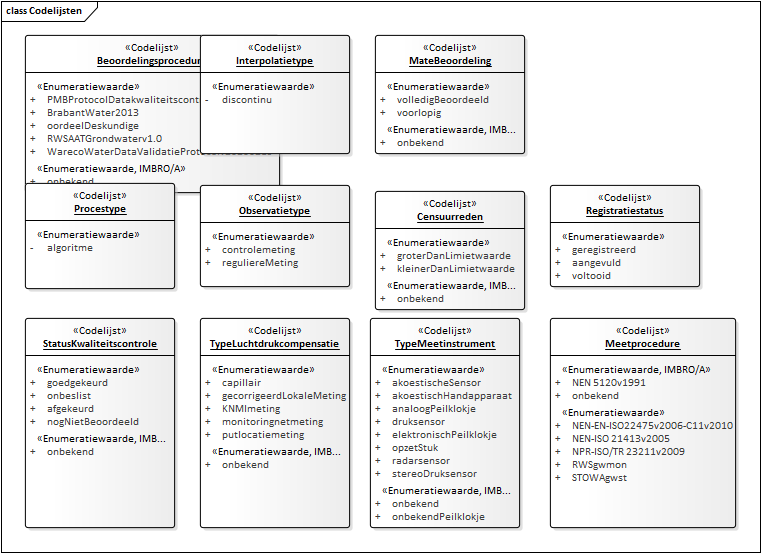
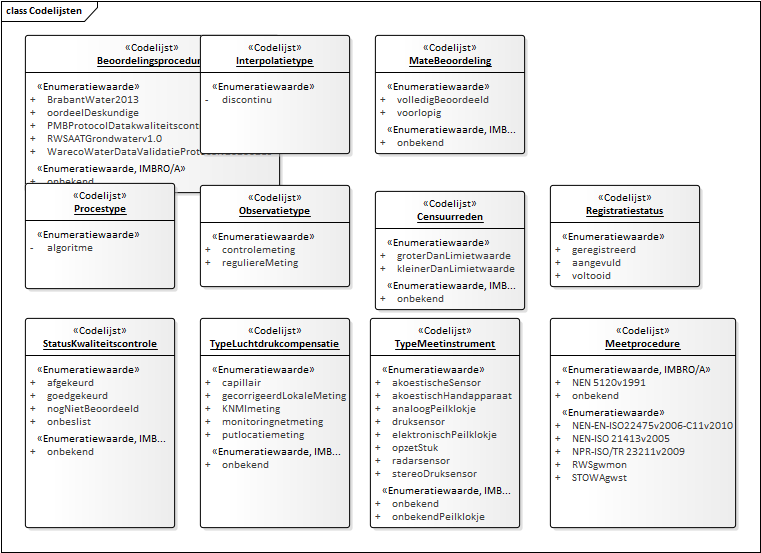
Conceptualmodel-GrondwaterstandonderzoekGLD-0.91-3-20191111-20200320-105337

Changed region(s): [[0.0604, 0.1537, 0.272, 0.2459], [0.0604, 0.6763, 0.1813, 0.7685]]

diff --git a/data/GLD-cat.msword.html b/data/GLD-cat.msword.html
@@ -13,7 +13,7 @@
    <body>
       <p>Conceptual model/Grondwaterstandonderzoek (GLD)/20191111</p>
       <p>Imvertor: 1.59.2</p>
-      <p>Model release: Conceptualmodel-GrondwaterstandonderzoekGLD-0.91-3-20191111-20200313-174330</p>
+      <p>Model release: Conceptualmodel-GrondwaterstandonderzoekGLD-0.91-3-20191111-20200320-105337</p>
       <hr>
       <section>
          <h1>Artikel 1 Definitie van registratieobject, entiteiten en attributen</h1>
@@ -207,8 +207,8 @@
                               <th>Regels</th>
                               <td>
                                  
-                                 <p>De organisatie moet binnen de basisregistratie ondergrond als bronhouder van grondwatersamenstellingsonderzoek
-                                    bekend zijn.
+                                 <p>De organisatie moet bekend zijn binnen de basisregistratie ondergrond als bronhouder
+                                    van grondwatersamenstellingsonderzoek.
                                  </p>
                                  
                               </td>
@@ -323,8 +323,8 @@
                               <th>Regels</th>
                               <td>
                                  
-                                 <p>De organisatie moet binnen de basisregistratie ondergrond als dataleverancier van
-                                    het registratieobject bekend zijn.
+                                 <p>De organisatie moet bekend zijn binnen de basisregistratie ondergrond als dataleverancier
+                                    van het registratieobject bekend zijn.
                                  </p>
                                  
                               </td>
@@ -1447,17 +1447,8 @@
                               <th>Regels</th>
                               <td>
                                  
-                                 <p>De begindatum van <em>observatieperiode moet</em> liggen na of gelijk zijn aan de einddatum van <em>observatieperiode</em> van andere <em>Observaties</em> uit hetzelfde grondwaterstandonderzoek waarvan de begindatum gelijk is aan of voor
-                                    de begindatum ligt van <em>observatieperiode</em> EN<br clear="none">
-                                    De einddatum van <em>observatieperiode</em> moet liggen voor of gelijk zijn aan de begindatum van <em>observatieperiode</em> van andere <em>Observaties</em> uit hetzelfde grondwaterstandonderzoek waarvan de einddatum gelijk is aan of na de
-                                    einddatum ligt van <em>observatieperiode,</em> wanneer geldt dat:<br clear="none">
-                                    de waarde van het attribuut <em>type observatie</em> gelijk is aan <em>reguliere meting</em> EN<br clear="none">
-                                    de waarde van het attribuut <em>mate beoordeling</em> gelijk is aan <em>volledig beoordeeld.</em>
-                                    
-                                 </p>
-                                 
-                                 <p>De waarde van <em>begindatum</em> moet gelijk zijn aan het datumdeel van <em>tijdstip meting</em> van het eerste <em>Tijdmeetwaardepaar</em> van de entiteit <em>Tijdmeetwaardereeks</em> behorende bij de observatie.<br clear="none">
-                                    De waarde van <em>einddatum</em> moet gelijk zijn aan het datumdeel van <em>tijdstip meting</em> van het laatste <em>Tijdmeetwaardepaar</em> van de entiteit <em>Tijdmeetwaardereeks</em> behorende bij de observatie.
+                                 <p>De observatieperioden mogen elkaar niet overlappen wanneer de waarde van het attribuut
+                                    <em>type observatie</em> van de entiteit <em>Metadata observatie</em> gelijk is aan <em>reguliereMeting</em> EN de waarde van het attribuut <em>mate beoordeling</em> van de entiteit <em>Metadata observatie</em> gelijk is aan <em>volledigBeoordeeld</em>.
                                  </p>
                                  
                               </td>
@@ -1468,9 +1459,12 @@
                                  
                                  <p>Het attribuut heeft als datatype Datuminterval dat bestaat uit een begin- en een einddatum.
                                     De bronhouder of dataleverancier kan de begindatum afleiden van de eerste meting uit
-                                    de reeks en de einddatum van de laatste meting uit de reeks. Het gegeven dient in
-                                    een brondocument te staan. Het is in WaterML een verplicht attribuut en daarom ook
-                                    hier opgenomen.
+                                    de reeks en de einddatum van de laatste meting uit de reeks.<br clear="none">
+                                    Het gegeven dient in een brondocument te staan. Het is in WaterML een verplicht attribuut
+                                    en daarom ook hier opgenomen.<br clear="none">
+                                    Observatieperioden van volledige beoordeelde tijd-meetwaardereeksen mogen niet overlappen,de
+                                    einddatum van de ene periode mag wel gelijk zijn aan de begindatum van de volgende
+                                    periode.
                                  </p>
                                  
                               </td>
@@ -1520,31 +1514,6 @@
                               <td>OnvolledigeDatum</td>
                            </tr>
                            <tr>
-                              <th>Regels</th>
-                              <td>
-                                 
-                                 <p>De waarde van dit attribuut moet gelijk zijn aan het attribuut <em>tijdstip meting</em> van het laatste <em>Tijdmeetwaardepaar</em> van de entiteit <em>Tijdmeetwaardereeks</em>, behorende bij de observatie wanneer:<br clear="none">
-                                    
-                                 </p>
-                                 
-                                 <ul>
-                                    
-                                    <li>het attribuut <em>observatietype</em> van de entiteit <em>Metadata observatie</em> gelijk is aan controlemeting OF<br clear="none">
-                                       
-                                    </li>
-                                    
-                                    <li>het attribuut <em>observatietype</em> van de entiteit <em>Metadata observatie</em> gelijk is aan reguliere meting EN het attribuut mate beoordeling gelijk is aan voorlopig.<br clear="none">
-                                       
-                                    </li>
-                                    
-                                 </ul>
-                                 
-                                 <p>De waarde van dit attribuut moet liggen na de waarde van het attribuut <em>tijdstip meting</em> van het laatste <em>Tijdmeetwaardepaar</em> van de entiteit <em>Tijdmeetwaardereeks</em>, behorende bij de observatie wanneer het attribuut <em>observatietype</em> van de entiteit <em>Metadata observatie</em> gelijk is aan <em>reguliere meting</em> EN het attribuut <em>mate beoordeling</em> gelijk is aan <em>volledig beoordeeld</em>.
-                                 </p>
-                                 
-                              </td>
-                           </tr>
-                           <tr>
                               <th>Regels IMBRO/A</th>
                               <td>
                                  
@@ -1559,11 +1528,11 @@
                               <td>
                                  
                                  <p>Bij een controlemeting, is dit het tijdstip waarop de meting is uitgevoerd. Bij een
-                                    reguliere meetreeks met een mate beoordeling: voorlopig, is dit het tijdstip van de
-                                    laatste meting van de reeks. Bij een volledig beoordeelde meetreeks is dit het tijdstip
-                                    waarop de beoordeling is afgerond. Niet bedoeld wordt het tijdstip waarop de resultaten
-                                    worden aangeboden bij het bronhouderportaal of de LV-BRO. Dit is in WaterML een verplicht
-                                    attribuut.
+                                    reguliere tijd-meetwaardereeks met een mate beoordeling: voorlopig, is dit het tijdstip
+                                    van de laatste meting van de reeks. Bij een volledig beoordeelde meetreeks is dit
+                                    het tijdstip waarop de beoordeling is afgerond. Niet bedoeld wordt het tijdstip waarop
+                                    de resultaten worden aangeboden bij het bronhouderportaal of de LV-BRO. Dit is in
+                                    WaterML een verplicht attribuut.
                                  </p>
                                  
                               </td>
@@ -1640,7 +1609,7 @@
                               <th>Regels</th>
                               <td>
                                  
-                                 <p>De waarde van dit attribuut moet gelijk zijn aan het datumdeel van het attribuut <em>tijdstip resultaat</em> van de entiteit <em>Observatie</em>.
+                                 <p>De waarde van het attribuut moet gelijk zijn aan het datumdeel van het attribuut <em>tijdstip resultaat</em> van de entiteit <em>Observatie</em>.
                                  </p>
                                  
                               </td>
@@ -1751,7 +1720,7 @@
                               <th>Regels</th>
                               <td>
                                  
-                                 <p>Het attribuut moet aanwezig zijn wanneer de waarde van het attribuut <em>observatietype</em> gelijk is aan <em>reguliere meting</em>.<br clear="none">
+                                 <p>Het attribuut moet aanwezig zijn wanneer de waarde van het attribuut <em>observatietype</em> gelijk is aan <em>reguliereMeting</em>.<br clear="none">
                                     Het attribuut mag niet aanwezig zijn wanneer de waarde van het attribuut <em>observatietype</em> gelijk is aan <em>controlemeting</em>.
                                  </p>
                                  
@@ -1853,8 +1822,8 @@
                               <th>Regels</th>
                               <td>
                                  
-                                 <p>De onderneming moet binnen de basisregistratie ondergrond als uitvoerder van grondwaterstandonderzoek
-                                    bekend zijn. 
+                                 <p>De onderneming moet bekend zijn binnen de basisregistratie ondergrond als uitvoerder
+                                    van grondwaterstandonderzoek. 
                                  </p>
                                  
                               </td>
@@ -2138,8 +2107,7 @@
                               <th>Regels</th>
                               <td>
                                  
-                                 <p>Het attribuut moet aanwezig zijn wanneer de waarde van het attribuut <em>type meetinstrument</em> gelijk is aan <em>druksensor</em>.<br clear="none">
-                                    Het attribuut moet aanwezig zijn wanneer de waarde van het attribuut <em>type meetinstrument</em> gelijk is aan <em>stereoDruksensor</em>.<br clear="none">
+                                 <p>Het attribuut moet aanwezig zijn wanneer de waarde van het attribuut <em>type meetinstrument</em> gelijk is aan <em>druksensor</em> of <em>stereoDruksensor</em>.<br clear="none">
                                     In alle andere gevallen mag het attribuut niet aanwezig zijn.
                                  </p>
                                  
@@ -2264,8 +2232,7 @@
                               <th>Regels IMBRO/A</th>
                               <td>
                                  
-                                 <p>De waarde van het attribuut moet gelijk zijn aan onbekend wanneer de waarde van het
-                                    attribuut <em>mate beoordeling</em> van de entiteit <em>Metadata observatie</em> gelijk is aan onbekend.
+                                 <p>De waarde van het attribuut moet gelijk zijn aan <em>onbekend</em> wanneer de waarde van het attribuut <em>mate beoordeling</em> van de entiteit <em>Metadata observatie</em> gelijk is aan <em>onbekend</em>.
                                  </p>
                                  
                               </td>
@@ -2424,6 +2391,24 @@
                               <th>&nbsp;&nbsp;Naam</th>
                               <td>DatumTijd</td>
                            </tr>
+                           <tr>
+                              <th>Regels</th>
+                              <td>
+                                 
+                                 <p>Het datumdeel van de waarde van het attribuut van het eerste <em>Tijdmeetwaardepaar</em> van de entiteit <em>Tijdmeetwaardereeks</em> moet gelijk zijn aan <em>begindatum</em> van het attribuut <em>observatieperiode</em> van de entiteit <em>Observatie</em>.<br clear="none">
+                                    Het datumdeel van de waarde van het attribuut van het laatste <em>Tijdmeetwaardepaar</em> van de entiteit <em>Tijdmeetwaardereeks</em> moet gelijk zijn aan <em>einddatum</em> van het attribuut <em>observatieperiode</em> van de entiteit <em>Observatie</em>.
+                                 </p>
+                                 
+                                 <p>De waarde van het attribuut van het laatste <em>Tijdmeetwaardepaar</em> van de entiteit <em>Tijdmeetwaardereeks</em> moet gelijk zijn aan de waarde van het attribuut <em>tijdstip resultaat</em> van de entiteit <em>Observatie</em> wanneer:<br clear="none">
+                                    het attribuut <em>observatietype</em> van de entiteit <em>Metadata observatie</em> gelijk is aan <em>controlemeting</em> OF<br clear="none">
+                                    het attribuut <em>observatietype</em> van de entiteit <em>Metadata observatie</em> gelijk is aan <em>reguliereMeting</em> EN het attribuut <em>mate beoordeling</em> gelijk is aan <em>voorlopig</em>.
+                                 </p>
+                                 
+                                 <p>De waarde van het attribuut van het laatste <em>Tijdmeetwaardepaar</em> van de entiteit <em>Tijdmeetwaardereeks</em> moet liggen voor de waarde van het attribuut <em>tijdstip resultaat</em> wanneer het attribuut <em>observatietype</em> van de entiteit <em>Metadata observatie</em> gelijk is aan <em>reguliereMeting</em> EN het attribuut <em>mate beoordeling</em> gelijk is aan <em>volledigBeoordeeld</em>.
+                                 </p>
+                                 
+                              </td>
+                           </tr>
                         </tbody>
                      </table>
                      
@@ -2478,8 +2463,8 @@
                               <th>Reden geen waarde</th>
                               <td>
                                  
-                                 <p>De waarde moet ontbreken wanneer het attribuut <em>censuurreden</em> van de entiteit <em>Metadata tijdmeetwaardepaar</em> aanwezig is.<br clear="none">
-                                    De eenheid behorende bij de waarde moet ontbreken wanneer de waarde ontbreekt.
+                                 <p>Het kan voorkomen dat de waarde gecensureerd is, alleen in dat geval ontbreekt de
+                                    waarde.
                                  </p>
                                  
                               </td>
@@ -2574,7 +2559,7 @@
                               <th>Regels</th>
                               <td>
                                  
-                                 <p>De waarde van het attribuut mag niet gelijk zijn aan <em>nogNietBeoordeeld</em> wanneer de waarde van het attribuut <em>mate beoordeling</em> van de entiteit <em>Metadata observatie</em> gelijk is aan <em>volledig beoordeeld</em>.<br clear="none">
+                                 <p>De waarde van het attribuut mag niet gelijk zijn aan <em>nogNietBeoordeeld</em> wanneer de waarde van het attribuut <em>mate beoordeling</em> van de entiteit <em>Metadata observatie</em> gelijk is aan <em>volledigBeoordeeld</em>.<br clear="none">
                                     <em> </em> 
                                     De waarde van het attribuut mag niet gelijk zijn aan <em>nogNietBeoordeeld</em> wanneer de waarde van het attribuut <em>observatietype</em> van de entiteit <em>Metadata observatie</em> gelijk is aan <em>controlemeting.</em>
                                     <br clear="none">
@@ -2587,8 +2572,7 @@
                               <th>Regels IMBRO/A</th>
                               <td>
                                  
-                                 <p>De waarde van het attribuut moet gelijk zijn aan onbekend wanneer de waarde van het
-                                    attribuut <em>mate beoordeling</em> van de entiteit <em>Metadata observatie</em> gelijk is aan onbekend.
+                                 <p>De waarde van het attribuut moet gelijk zijn aan <em>onbekend</em> wanneer de waarde van het attribuut <em>mate beoordeling</em> van de entiteit <em>Metadata observatie</em> gelijk is aan <em>onbekend</em>.
                                  </p>
                                  
                               </td>
@@ -2643,7 +2627,7 @@
                               <th>Regels</th>
                               <td>
                                  
-                                 <p>Het attribuut moet aanwezig zijn en een waarde hebben wanneer het attribuut <em>waterstand</em> van de entiteit <em>Tijdmeetwaardepaar</em> geen waarde heeft.<br clear="none">
+                                 <p>Het attribuut moet aanwezig zijn wanneer het attribuut <em>waterstand</em> van de entiteit <em>Tijdmeetwaardepaar</em> geen waarde heeft.<br clear="none">
                                     In alle andere gevallen ontbreekt het attribuut.
                                  </p>
                                  
@@ -2714,9 +2698,8 @@
                               <th>Regels</th>
                               <td>
                                  
-                                 <p>Het attribuut moet aanwezig zijn en een waarde hebben wanneer het attribuut <em>censuurreden</em> een waarde heeft.<br clear="none">
-                                    In alle andere gevallen ontbreekt het attribuut.<br clear="none">
-                                    De eenheid behorende bij de waarde moet ontbreken wanneer de waarde ontbreekt. 
+                                 <p>Het attribuut moet aanwezig zijn wanneer het attribuut <em>censuurreden</em> aanwezig is.<br clear="none">
+                                    In alle andere gevallen ontbreekt het attribuut. 
                                  </p>
                                  
                               </td>
@@ -3336,18 +3319,6 @@
                      <th>Omschrijving</th>
                   </tr>
                   <tr>
-                     <td>PMBProtocolDatakwaliteitscontroleQC2018v2.0</td>
-                     <td>✔</td>
-                     <td>✔</td>
-                     <td>
-                        
-                        <p>Het protocol voor datakwaliteitscontrole (QC) van het Platform Meetnetbeheerders (versie
-                           2.0, 2018).
-                        </p>
-                        
-                     </td>
-                  </tr>
-                  <tr>
                      <td>BrabantWater2013</td>
                      <td>✔</td>
                      <td>✔</td>
@@ -3364,6 +3335,18 @@
                      <td>
                         
                         <p>De beoordeling is gedaan door een expert, niet volgens een expliciet protocol of werkvoorschrift.</p>
+                        
+                     </td>
+                  </tr>
+                  <tr>
+                     <td>PMBProtocolDatakwaliteitscontroleQC2018v2.0</td>
+                     <td>✔</td>
+                     <td>✔</td>
+                     <td>
+                        
+                        <p>Het protocol voor datakwaliteitscontrole (QC) van het Platform Meetnetbeheerders (versie
+                           2.0, 2018).
+                        </p>
                         
                      </td>
                   </tr>
@@ -3562,30 +3545,6 @@
                      <th>Omschrijving</th>
                   </tr>
                   <tr>
-                     <td>goedgekeurd</td>
-                     <td>✔</td>
-                     <td>✔</td>
-                     <td>
-                        
-                        <p>Er is geen reden om aan de juistheid van dit gegeven te twijfelen op basis is van
-                           de gehanteerde beoordelingsprocedure.
-                        </p>
-                        
-                     </td>
-                  </tr>
-                  <tr>
-                     <td>onbeslist</td>
-                     <td>✔</td>
-                     <td>✔</td>
-                     <td>
-                        
-                        <p>Er zijn twijfels over de juistheid van dit gegeven, maar uitsluitsel kon niet gegeven
-                           worden op basis van de gehanteerde beoordelingsprocedure.
-                        </p>
-                        
-                     </td>
-                  </tr>
-                  <tr>
                      <td>afgekeurd</td>
                      <td>✔</td>
                      <td>✔</td>
@@ -3598,6 +3557,18 @@
                      </td>
                   </tr>
                   <tr>
+                     <td>goedgekeurd</td>
+                     <td>✔</td>
+                     <td>✔</td>
+                     <td>
+                        
+                        <p>Er is geen reden om aan de juistheid van dit gegeven te twijfelen op basis is van
+                           de gehanteerde beoordelingsprocedure.
+                        </p>
+                        
+                     </td>
+                  </tr>
+                  <tr>
                      <td>nogNietBeoordeeld</td>
                      <td>✔</td>
                      <td>✔</td>
@@ -3605,6 +3576,18 @@
                         
                         <p>Er is nog geen beoordeling gedaan van de kwaliteit. De beoordeling zal later plaats
                            vinden.
+                        </p>
+                        
+                     </td>
+                  </tr>
+                  <tr>
+                     <td>onbeslist</td>
+                     <td>✔</td>
+                     <td>✔</td>
+                     <td>
+                        
+                        <p>Er zijn twijfels over de juistheid van dit gegeven, maar uitsluitsel kon niet gegeven
+                           worden op basis van de gehanteerde beoordelingsprocedure.
                         </p>
                         
                      </td>
